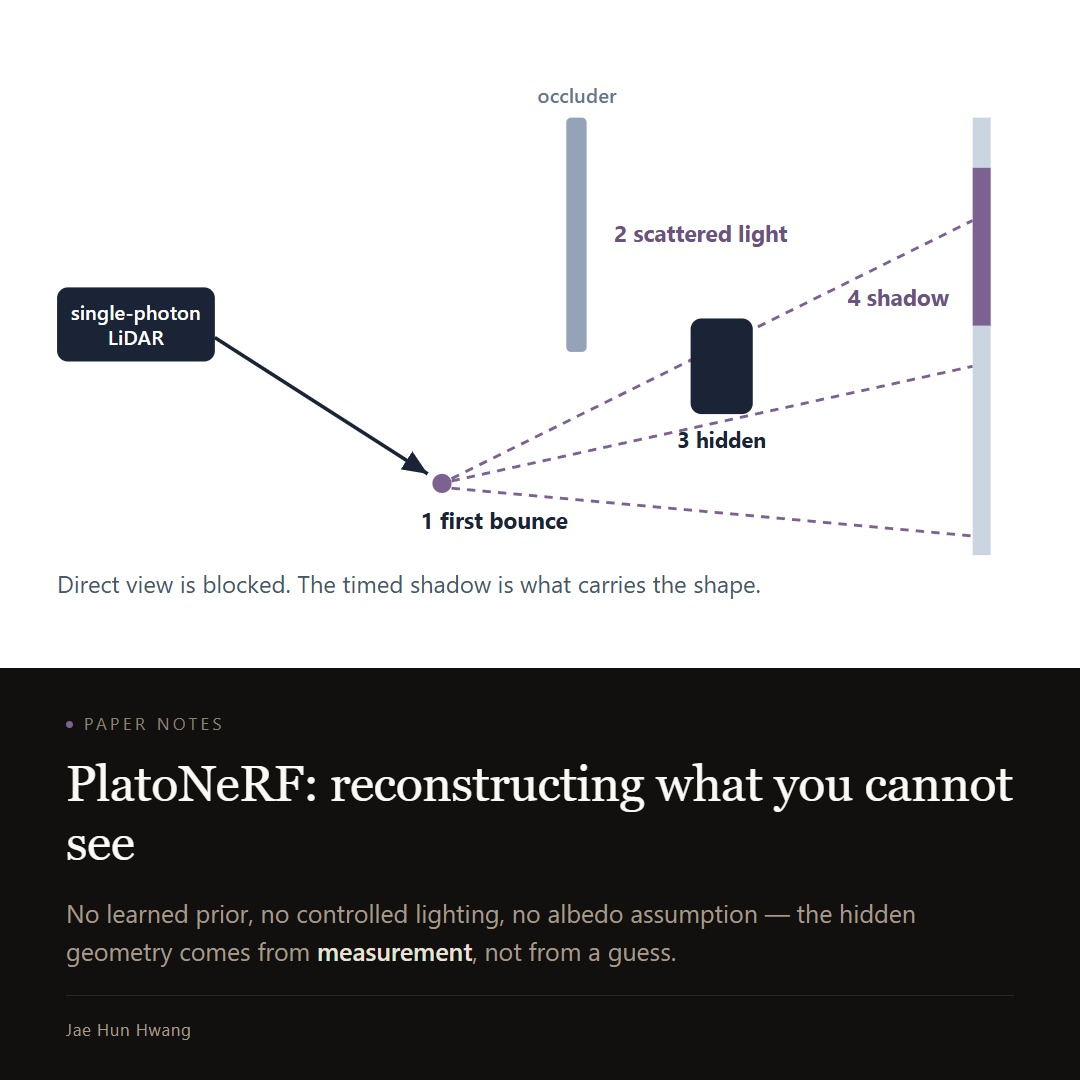
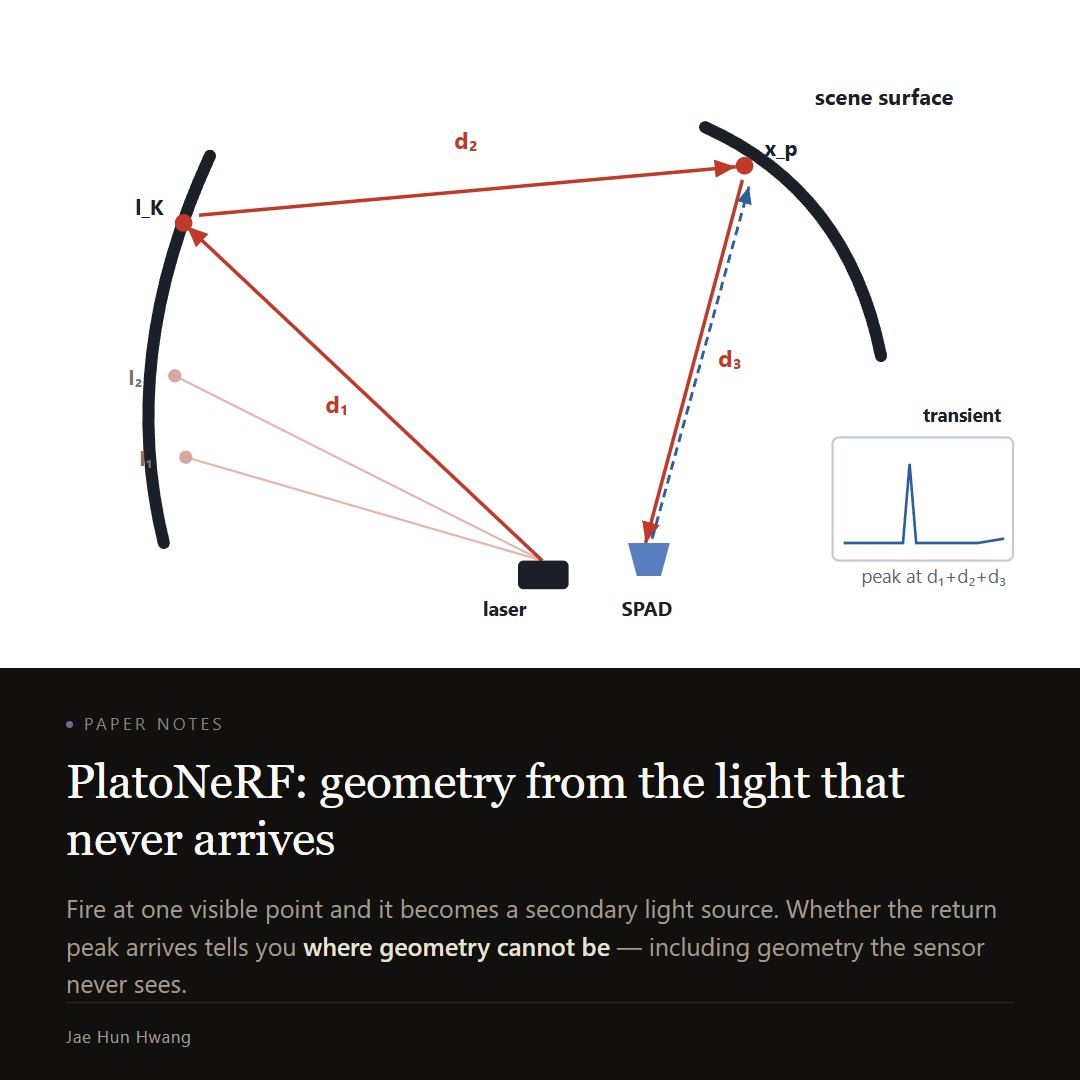
sync: 45 card image(s)

diff --git a/index.html b/index.html
@@ -12,21 +12,51 @@
   code { font-size:12px; color:#555; word-break:break-all; }
 </style>
 <h1>Research note assets</h1>
-<p>Image assets for research note posts. 15 files.</p>
+<p>Image assets for research note posts. 45 files.</p>
 <ul>
   <li><img src="img/l05.jpg" loading="lazy"><code>l05.jpg</code></li>
   <li><img src="img/l05_fig.jpg" loading="lazy"><code>l05_fig.jpg</code></li>
   <li><img src="img/l05_ig.jpg" loading="lazy"><code>l05_ig.jpg</code></li>
+  <li><img src="img/l12.jpg" loading="lazy"><code>l12.jpg</code></li>
+  <li><img src="img/l12_fig.jpg" loading="lazy"><code>l12_fig.jpg</code></li>
+  <li><img src="img/l12_ig.jpg" loading="lazy"><code>l12_ig.jpg</code></li>
+  <li><img src="img/l13.jpg" loading="lazy"><code>l13.jpg</code></li>
+  <li><img src="img/l13_fig.jpg" loading="lazy"><code>l13_fig.jpg</code></li>
+  <li><img src="img/l13_ig.jpg" loading="lazy"><code>l13_ig.jpg</code></li>
   <li><img src="img/p01.jpg" loading="lazy"><code>p01.jpg</code></li>
   <li><img src="img/p01_fig.jpg" loading="lazy"><code>p01_fig.jpg</code></li>
   <li><img src="img/p01_ig.jpg" loading="lazy"><code>p01_ig.jpg</code></li>
   <li><img src="img/p03.jpg" loading="lazy"><code>p03.jpg</code></li>
   <li><img src="img/p03_fig.jpg" loading="lazy"><code>p03_fig.jpg</code></li>
   <li><img src="img/p03_ig.jpg" loading="lazy"><code>p03_ig.jpg</code></li>
+  <li><img src="img/p08.jpg" loading="lazy"><code>p08.jpg</code></li>
+  <li><img src="img/p08_fig.jpg" loading="lazy"><code>p08_fig.jpg</code></li>
+  <li><img src="img/p08_ig.jpg" loading="lazy"><code>p08_ig.jpg</code></li>
+  <li><img src="img/p14.jpg" loading="lazy"><code>p14.jpg</code></li>
+  <li><img src="img/p14_fig.jpg" loading="lazy"><code>p14_fig.jpg</code></li>
+  <li><img src="img/p14_ig.jpg" loading="lazy"><code>p14_ig.jpg</code></li>
   <li><img src="img/r02.jpg" loading="lazy"><code>r02.jpg</code></li>
   <li><img src="img/r02_fig.jpg" loading="lazy"><code>r02_fig.jpg</code></li>
   <li><img src="img/r02_ig.jpg" loading="lazy"><code>r02_ig.jpg</code></li>
+  <li><img src="img/r07.jpg" loading="lazy"><code>r07.jpg</code></li>
+  <li><img src="img/r07_fig.jpg" loading="lazy"><code>r07_fig.jpg</code></li>
+  <li><img src="img/r07_ig.jpg" loading="lazy"><code>r07_ig.jpg</code></li>
+  <li><img src="img/r09.jpg" loading="lazy"><code>r09.jpg</code></li>
+  <li><img src="img/r09_fig.jpg" loading="lazy"><code>r09_fig.jpg</code></li>
+  <li><img src="img/r09_ig.jpg" loading="lazy"><code>r09_ig.jpg</code></li>
+  <li><img src="img/r11.jpg" loading="lazy"><code>r11.jpg</code></li>
+  <li><img src="img/r11_fig.jpg" loading="lazy"><code>r11_fig.jpg</code></li>
+  <li><img src="img/r11_ig.jpg" loading="lazy"><code>r11_ig.jpg</code></li>
   <li><img src="img/t04.jpg" loading="lazy"><code>t04.jpg</code></li>
   <li><img src="img/t04_fig.jpg" loading="lazy"><code>t04_fig.jpg</code></li>
   <li><img src="img/t04_ig.jpg" loading="lazy"><code>t04_ig.jpg</code></li>
+  <li><img src="img/t06.jpg" loading="lazy"><code>t06.jpg</code></li>
+  <li><img src="img/t06_fig.jpg" loading="lazy"><code>t06_fig.jpg</code></li>
+  <li><img src="img/t06_ig.jpg" loading="lazy"><code>t06_ig.jpg</code></li>
+  <li><img src="img/t10.jpg" loading="lazy"><code>t10.jpg</code></li>
+  <li><img src="img/t10_fig.jpg" loading="lazy"><code>t10_fig.jpg</code></li>
+  <li><img src="img/t10_ig.jpg" loading="lazy"><code>t10_ig.jpg</code></li>
+  <li><img src="img/t15.jpg" loading="lazy"><code>t15.jpg</code></li>
+  <li><img src="img/t15_fig.jpg" loading="lazy"><code>t15_fig.jpg</code></li>
+  <li><img src="img/t15_ig.jpg" loading="lazy"><code>t15_ig.jpg</code></li>
 </ul>
